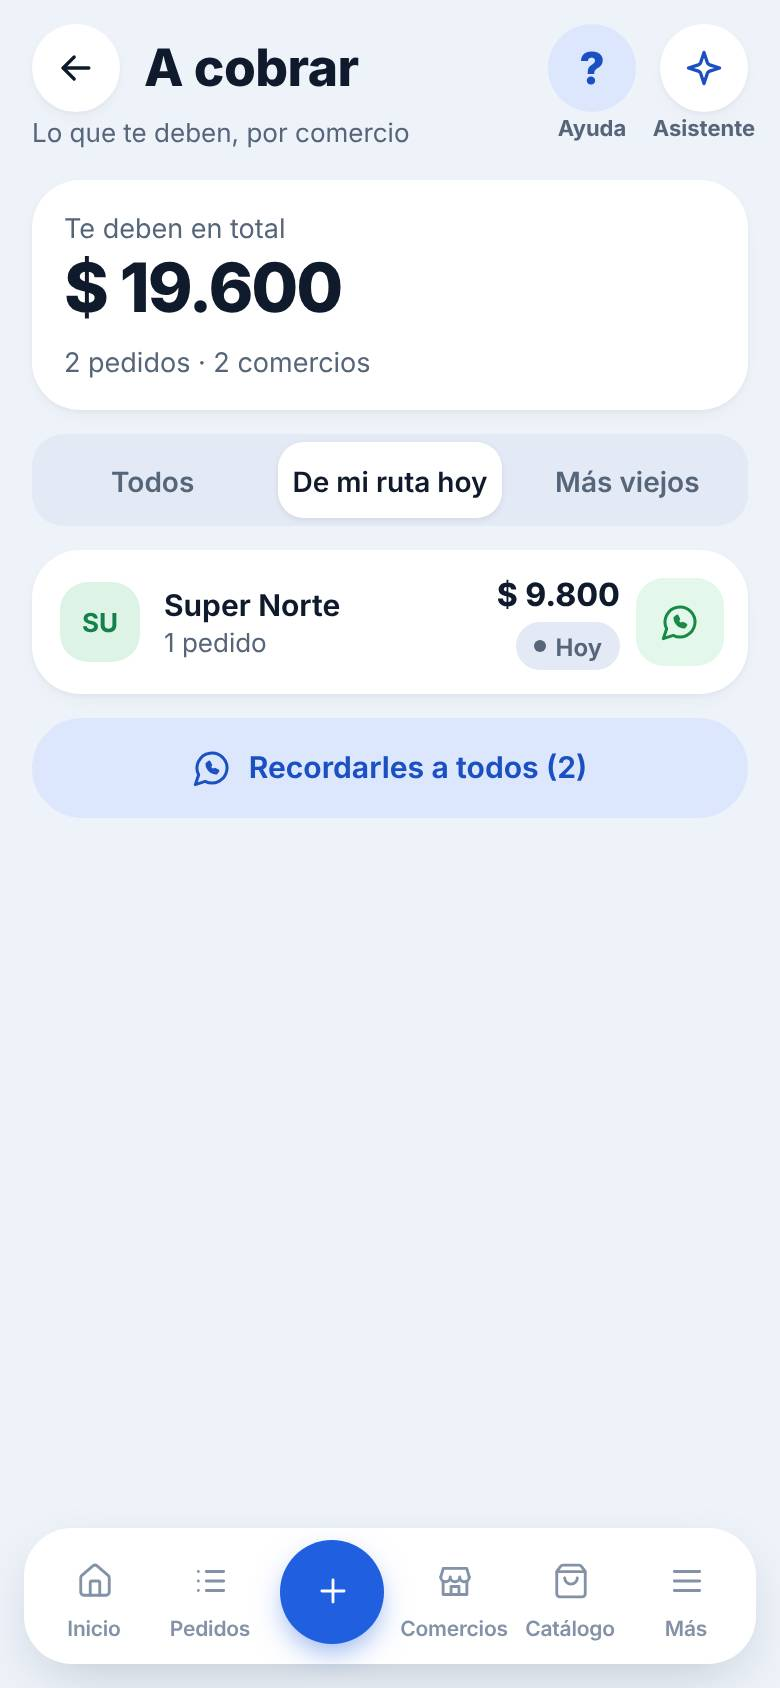
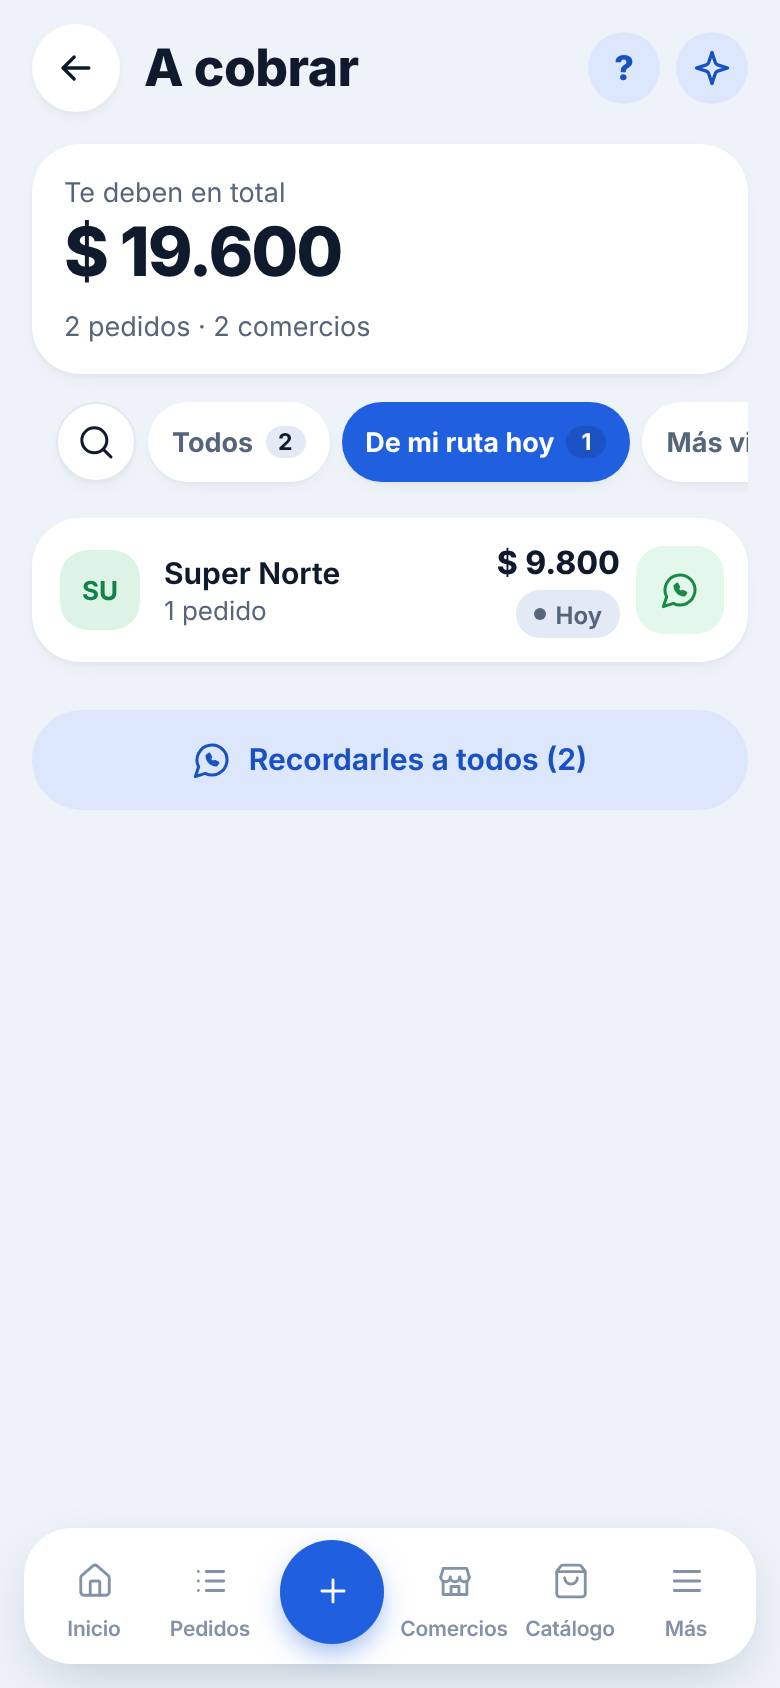
A cobrar: lupa primera, filtros Más viejas/Más grandes con número y datos de ejemplo con deudas
Claude-Session: https://claude.ai/code/session_01VMQLWavp8XjAqdSXVrdpus

diff --git a/saldos.js b/saldos.js
@@ -138,9 +138,13 @@
         dibujarPantalla();
     }
 
-    // T113: filtro elegido en "A cobrar" (Todos, De mi ruta hoy, Más viejos).
+    // T113: filtro elegido en "A cobrar". Repaso de A cobrar: la fila de
+    // filtros es como la de Pedidos (número adentro) y la lupa va primera.
     let filtroACobrar = "todos";
+    let buscarACobrar = "";
+    let lupaACobrar = null;
     const DIAS = ["Domingo", "Lunes", "Martes", "Miércoles", "Jueves", "Viernes", "Sábado"];
+    const DIAS_VIEJA = 7;
 
     function diasDesde(hora) {
         const hoy = new Date(); hoy.setHours(0, 0, 0, 0);
@@ -163,17 +167,74 @@
         return `<span class="pzChip ${clase}">${textoAntiguedad(grupo.desde)}</span>`;
     }
 
-    function cuentasFiltradas(lista) {
-        if (filtroACobrar === "ruta") return lista.filter(esDeMiRutaHoy);
-        if (filtroACobrar === "viejos") return lista.slice().sort((a, b) => a.desde - b.desde);
-        return lista;
+    // "Más viejas": las de más de una semana, la más vieja primero.
+    // "Más grandes": las que pasan el promedio, la más grande primero.
+    function gruposDeFiltros(lista) {
+        const promedio = lista.length ? lista.reduce((suma, grupo) => suma + grupo.total, 0) / lista.length : 0;
+        return {
+            todos: lista,
+            ruta: lista.filter(esDeMiRutaHoy),
+            viejas: lista.filter(grupo => diasDesde(grupo.desde) > DIAS_VIEJA).sort((a, b) => a.desde - b.desde),
+            grandes: lista.filter(grupo => grupo.total >= promedio).sort((a, b) => b.total - a.total)
+        };
+    }
+
+    function dibujarFiltros(seccion, grupos) {
+        const fila = seccion.querySelector(".filtrosACobrar");
+        if (!fila) return;
+        if (!lupaACobrar || !fila.contains(lupaACobrar.caja)) {
+            const input = document.createElement("input");
+            input.type = "search";
+            input.id = "buscarACobrar";
+            input.placeholder = "Buscar comercio";
+            input.value = buscarACobrar;
+            input.addEventListener("input", () => { buscarACobrar = input.value; dibujarLista(); });
+            lupaACobrar = p.lupa ? p.lupa(input, { etiqueta: "Buscar comercio" }) : null;
+        }
+        [...fila.children].forEach(hijo => { if (!hijo.classList.contains("pzLupa")) hijo.remove(); });
+        [["todos", "Todos"], ["ruta", "De mi ruta hoy"], ["viejas", "Más viejas"], ["grandes", "Más grandes"]].forEach(([clave, texto]) => {
+            const chip = document.createElement("button");
+            chip.type = "button";
+            chip.className = "filtroEtapa" + (filtroACobrar === clave ? " activo" : "");
+            chip.dataset.filtroCobrar = clave;
+            chip.setAttribute("aria-pressed", String(filtroACobrar === clave));
+            chip.innerHTML = `<span class="filtroEtapaNombre">${texto}</span><small class="filtroEtapaCantidad">${grupos[clave].length}</small>`;
+            fila.appendChild(chip);
+        });
+        if (lupaACobrar) lupaACobrar.poner(fila);
     }
 
     function dibujarPantalla() {
         const seccion = document.getElementById("pantallaACobrar");
         if (!seccion || seccion.classList.contains("oculto")) return;
+        const main = seccion.querySelector("main");
+        if (!main.querySelector(".listaACobrar")) {
+            lupaACobrar = null;
+            main.innerHTML = `<div class="pzTarjeta pzRelleno pzTotalGrande"></div>
+                <div class="filtrosEtapaPedidos filtrosACobrar" role="group" aria-label="Filtrar"></div>
+                <div class="pzTarjeta pzLista listaACobrar"></div>
+                <div class="recordarACobrar"></div>`;
+            main.onclick = evento => {
+                const filtro = evento.target.closest("[data-filtro-cobrar]");
+                if (filtro) { filtroACobrar = filtro.dataset.filtroCobrar; dibujarLista(); return; }
+                const wa = evento.target.closest("[data-recordar]");
+                if (wa) { const grupo = cuentaDe(wa.dataset.recordar); if (grupo) recordar(grupo); return; }
+                if (evento.target.closest("[data-recordar-todos]")) { recordarATodos(); return; }
+                const fila = evento.target.closest("[data-cuenta]");
+                if (fila) opcionesCuenta(fila.dataset.cuenta);
+            };
+        }
+        dibujarLista();
+    }
+
+    function dibujarLista() {
+        const seccion = document.getElementById("pantallaACobrar");
+        if (!seccion) return;
         const todas = cuentas();
-        const lista = cuentasFiltradas(todas);
+        const grupos = gruposDeFiltros(todas);
+        if (!grupos[filtroACobrar]) filtroACobrar = "todos";
+        const texto = normal(buscarACobrar.trim());
+        const lista = texto ? grupos[filtroACobrar].filter(grupo => normal(grupo.nombre).includes(texto)) : grupos[filtroACobrar];
         const total = todas.reduce((suma, grupo) => suma + grupo.total, 0);
         const pedidos = todas.reduce((suma, grupo) => suma + grupo.pedidos.length, 0);
         const conWhatsapp = todas.filter(grupo => enlaceRecordatorio(grupo));
@@ -191,28 +252,18 @@
                 ${wa ? `<button type="button" class="botonWaACobrar" data-recordar="${p.esc(grupo.nombre)}" aria-label="Mandar recordatorio a ${p.esc(grupo.nombre)}">${p.ico("whatsapp", 20)}</button>` : ""}
             </div>`;
         }).join("");
-        const filtros = [["todos", "Todos"], ["ruta", "De mi ruta hoy"], ["viejos", "Más viejos"]]
-            .map(([clave, texto]) => `<button type="button" data-filtro-cobrar="${clave}" aria-pressed="${filtroACobrar === clave}">${texto}</button>`).join("");
-        const vacio = filtroACobrar === "ruta" && todas.length
-            ? "Nadie de tu ruta de hoy te debe."
+        const vacio = texto ? "Nadie con ese nombre te debe."
+            : filtroACobrar === "ruta" && todas.length ? "Nadie de tu ruta de hoy te debe."
             : "No te deben nada. ¡Bien!";
-        seccion.querySelector("main").innerHTML = `<div class="pzTarjeta pzRelleno pzTotalGrande">
-                <small>Te deben en total</small>
+        seccion.querySelector(".pzTotalGrande").innerHTML = `<small>Te deben en total</small>
                 <strong>${p.plata(total)}</strong>
-                <span>${textoPedidos(pedidos)} · ${todas.length} ${todas.length === 1 ? "comercio" : "comercios"}</span>
-            </div>
-            ${todas.length ? `<div class="pzSegmentos filtrosACobrar" role="group" aria-label="Filtrar">${filtros}</div>` : ""}
-            <div class="pzTarjeta pzLista">${filas || `<div class="pzVacio">${vacio}</div>`}</div>
-            ${conWhatsapp.length > 1 ? `<button type="button" class="pzBtn pzBtnSec recordarATodos" data-recordar-todos>${p.ico("whatsapp", 20)}Recordarles a todos (${conWhatsapp.length})</button>` : ""}`;
-        seccion.querySelector("main").onclick = evento => {
-            const filtro = evento.target.closest("[data-filtro-cobrar]");
-            if (filtro) { filtroACobrar = filtro.dataset.filtroCobrar; dibujarPantalla(); return; }
-            const wa = evento.target.closest("[data-recordar]");
-            if (wa) { const grupo = cuentaDe(wa.dataset.recordar); if (grupo) recordar(grupo); return; }
-            if (evento.target.closest("[data-recordar-todos]")) { recordarATodos(); return; }
-            const fila = evento.target.closest("[data-cuenta]");
-            if (fila) opcionesCuenta(fila.dataset.cuenta);
-        };
+                <span>${textoPedidos(pedidos)} · ${todas.length} ${todas.length === 1 ? "comercio" : "comercios"}</span>`;
+        const filaFiltros = seccion.querySelector(".filtrosACobrar");
+        filaFiltros.classList.toggle("oculto", !todas.length);
+        if (todas.length) dibujarFiltros(seccion, grupos);
+        seccion.querySelector(".listaACobrar").innerHTML = filas || `<div class="pzVacio">${vacio}</div>`;
+        seccion.querySelector(".recordarACobrar").innerHTML = conWhatsapp.length > 1
+            ? `<button type="button" class="pzBtn pzBtnSec recordarATodos" data-recordar-todos>${p.ico("whatsapp", 20)}Recordarles a todos (${conWhatsapp.length})</button>` : "";
     }
 
     // "Recordarles a todos": WhatsApp abre de a uno, así que se mandan en fila.

diff --git a/pruebas/mejoras.prueba.js b/pruebas/mejoras.prueba.js
@@ -173,7 +173,20 @@ test("mejoras: a cobrar, cierre, estadísticas, lista de precios y dictado", asy
     await expect(aCobrar.locator(".filaACobrar")).toHaveCount(1);
     await expect(aCobrar.locator(".filaACobrar")).toContainText("Super Norte");
     await capturar(page, "mejoras-07-a-cobrar");
-    await aCobrar.getByRole("button", { name: "Todos", exact: true }).click();
+    // Repaso de A cobrar: lupa primera en la fila y filtros con el número.
+    const fila = aCobrar.locator(".filtrosACobrar");
+    await expect(fila.locator(":scope > *").first()).toHaveClass(/pzLupa/);
+    await expect(fila.getByRole("button", { name: /^Todos/ })).toContainText("2");
+    await expect(fila.getByRole("button", { name: /^Más viejas/ })).toContainText("0");
+    await fila.getByRole("button", { name: /^Más grandes/ }).click();
+    await expect(aCobrar.locator(".filaACobrar").first()).toBeVisible();
+    await aCobrar.getByRole("button", { name: /^Todos/ }).click();
+    await fila.getByRole("button", { name: "Buscar comercio" }).click();
+    await aCobrar.locator("#buscarACobrar").fill("luna");
+    await expect(aCobrar.locator(".filaACobrar")).toHaveCount(1);
+    await expect(aCobrar.locator(".filaACobrar")).toContainText("Kiosco Luna");
+    await aCobrar.getByRole("button", { name: "Cerrar el buscador" }).click();
+    await expect(aCobrar.locator(".filaACobrar")).toHaveCount(2);
     await aCobrar.getByRole("button", { name: /Recordarles a todos \(2\)/ }).click();
     const todos = page.getByRole("dialog", { name: "Recordarles a todos" });
     await todos.getByRole("button", { name: "Enviar" }).first().click();

diff --git a/ejemplo.js b/ejemplo.js
@@ -147,6 +147,9 @@
         const hoy = new Date(); hoy.setHours(10, 0, 0, 0);
         const pedidos = [];
         COMERCIOS.forEach((comercio, numero) => {
+            // Repaso de A cobrar: la mitad de los comercios quedó debiendo su
+            // último pedido (entregado y sin cobrar), así "A cobrar" no da $ 0.
+            let debe = numero % 2 === 0;
             for (let hace = comercio.deja || (numero % 3); hace <= 35; hace += comercio.cada) {
                 const variacion = (hace + numero) % 3 - 1;
                 const timestamp = hoy.getTime() - hace * DIA + numero * 1800000;
@@ -160,8 +163,10 @@
                     productos,
                     // Como un pedido cargado en la app: Historial muestra la
                     // fecha, las unidades y el mensaje de "Ver pedido".
-                    ...comoPedidoGuardado(comercio.nombre, timestamp, productos)
+                    ...comoPedidoGuardado(comercio.nombre, timestamp, productos),
+                    ...(debe && hace >= 1 ? { estados: { est_ejemplo: { estado: "entregado", horaCelular: timestamp + 3600000 } } } : {})
                 });
+                if (hace >= 1) debe = false;
             }
         });
         pedidos.sort((a, b) => b.timestamp - a.timestamp);

diff --git a/tema.css b/tema.css
@@ -2048,8 +2048,8 @@ html .grillaCatalogo.vistaLista .pieItemCatalogo{grid-column:4;grid-row:1 / span
 html .grillaCatalogo.vistaLista .catalogoVacio{padding:24px;}
 
 /* T113: A cobrar con color por antigüedad, filtros y WhatsApp por fila */
-.filtrosACobrar{margin:12px 0;}
-.filtrosACobrar button{flex:1;min-height:40px;font-size:13.5px;}
+.filtrosACobrar{margin:12px -12px;}
+.filtrosACobrar .filtroEtapa{min-height:40px;font-size:13.5px;}
 .filaACobrar{display:flex;align-items:center;border-top:1px solid var(--borde);}
 .filaACobrar:first-child{border-top:0;}
 .filaACobrar .pzFila{border-top:0;flex:1;min-width:0;padding-right:8px;}

diff --git a/sw.js b/sw.js
@@ -1,7 +1,7 @@
 // =====================================================
 // VendeFrío - Service Worker (v164 - Estilo nuevo)
 // =====================================================
-const CACHE_NAME = "vendefrio-v287";
+const CACHE_NAME = "vendefrio-v288";
 const ARCHIVOS = [
   "./",
   "./index.html",
